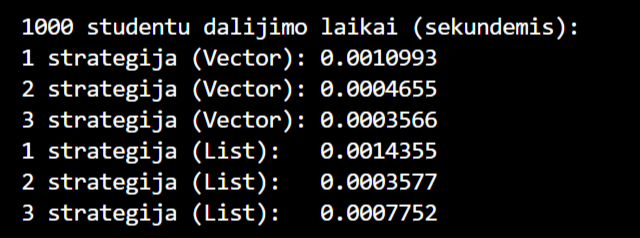
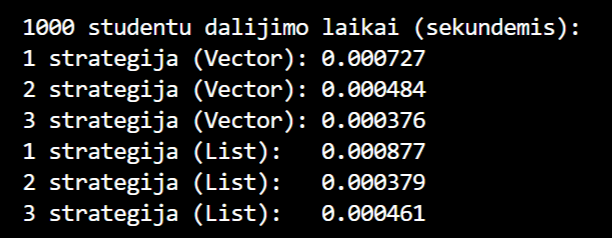
Pakoreguotos funkcijos, nuotraukos ir papildytas README.md failas

diff --git a/funkcijos.cpp b/funkcijos.cpp
@@ -357,9 +357,7 @@ void strategiju_analize()
     for (size_t dydis : dydziai)
         {
             const std::string failo_pavadinimas = "studentai_" + std::to_string(dydis) + ".txt";
-            std::chrono::duration<double> vector1Laikas, vector2Laikas;
-            std::chrono::duration<double> list1Laikas, list2Laikas;
-            std::chrono::duration<double> vector3Laikas, list3Laikas;
+            std::cout << "\n" << dydis << " studentu dalijimo laikai (sekundemis):\n";
             {
                 std::vector<studentas> vector1;
                 std::vector<studentas> vector1Vargsiukai;
@@ -370,7 +368,9 @@ void strategiju_analize()
                 auto pradzia = std::chrono::steady_clock::now();
                 studentu_rusiavimas(vector1, vector1Vargsiukai, vector1Kietiakai);
                 auto pabaiga = std::chrono::steady_clock::now();
-                vector1Laikas = pabaiga - pradzia;
+                const std::chrono::duration<double> laikas = pabaiga - pradzia;
+                std::cout << "1 strategija (Vector): " << std::fixed << std::setprecision(6)
+                          << laikas.count() << "\n" << std::flush;
             }
 
             {
@@ -382,7 +382,23 @@ void strategiju_analize()
                 auto pradzia = std::chrono::steady_clock::now();
                 studentu_rusiavimas_2strat(vector2, vector2Vargsiukai);
                 auto pabaiga = std::chrono::steady_clock::now();
-                vector2Laikas = pabaiga - pradzia;
+                const std::chrono::duration<double> laikas = pabaiga - pradzia;
+                std::cout << "2 strategija (Vector): " << std::fixed << std::setprecision(6)
+                          << laikas.count() << "\n" << std::flush;
+            }
+
+            {
+                std::vector<studentas> vector3;
+                std::vector<studentas> vector3Vargsiukai;
+                std::string vectorFailas3 = failo_pavadinimas;
+                failo_skaitymas(vector3, vectorFailas3);
+
+                auto pradzia = std::chrono::steady_clock::now();
+                studentu_rusiavimas_3strat(vector3, vector3Vargsiukai);
+                auto pabaiga = std::chrono::steady_clock::now();
+                const std::chrono::duration<double> laikas = pabaiga - pradzia;
+                std::cout << "3 strategija (Vector): " << std::fixed << std::setprecision(6)
+                          << laikas.count() << "\n" << std::flush;
             }
 
             {
@@ -395,7 +411,9 @@ void strategiju_analize()
                 auto pradzia = std::chrono::steady_clock::now();
                 studentu_rusiavimas(list1, list1Vargsiukai, list1Kietiakai);
                 auto pabaiga = std::chrono::steady_clock::now();
-                list1Laikas = pabaiga - pradzia;
+                const std::chrono::duration<double> laikas = pabaiga - pradzia;
+                std::cout << "1 strategija (List):   " << std::fixed << std::setprecision(6)
+                          << laikas.count() << "\n" << std::flush;
             }
 
             {
@@ -407,19 +425,9 @@ void strategiju_analize()
                 auto pradzia = std::chrono::steady_clock::now();
                 studentu_rusiavimas_2strat(list2, list2Vargsiukai);
                 auto pabaiga = std::chrono::steady_clock::now();
-                list2Laikas = pabaiga - pradzia;
-            }
-
-            {
-                std::vector<studentas> vector3;
-                std::vector<studentas> vector3Vargsiukai;
-                std::string vectorFailas3 = failo_pavadinimas;
-                failo_skaitymas(vector3, vectorFailas3);
-
-                auto pradzia = std::chrono::steady_clock::now();
-                studentu_rusiavimas_3strat(vector3, vector3Vargsiukai);
-                auto pabaiga = std::chrono::steady_clock::now();
-                vector3Laikas = pabaiga - pradzia;
+                const std::chrono::duration<double> laikas = pabaiga - pradzia;
+                std::cout << "2 strategija (List):   " << std::fixed << std::setprecision(6)
+                          << laikas.count() << "\n" << std::flush;
             }
 
             {
@@ -431,16 +439,10 @@ void strategiju_analize()
                 auto pradzia = std::chrono::steady_clock::now();
                 studentu_rusiavimas_3strat(list3, list3Vargsiukai);
                 auto pabaiga = std::chrono::steady_clock::now();
-                list3Laikas = pabaiga - pradzia;
+                const std::chrono::duration<double> laikas = pabaiga - pradzia;
+                std::cout << "3 strategija (List):   " << std::fixed << std::setprecision(6)
+                          << laikas.count() << "\n" << std::flush;
             }
-
-            std::cout << "\n" << dydis << " studentu dalijimo laikai (sekundemis):\n"
-                    << "1 strategija (Vector): " << vector1Laikas.count() << "\n"
-                    << "2 strategija (Vector): " << vector2Laikas.count() << "\n"
-                    << "3 strategija (Vector): " << vector3Laikas.count() << "\n"
-                    << "1 strategija (List):   " << list1Laikas.count() << "\n"
-                    << "2 strategija (List):   " << list2Laikas.count() << "\n"
-                    << "3 strategija (List):   " << list3Laikas.count() << "\n";
         }
 }
 

diff --git a/README.md b/README.md
@@ -55,7 +55,7 @@ Zemiau pateikiami programos spartos analizes rezultatu ***vidurkiai*** Vector ir
 |1000000 irasu (19 ND)|8.367813|0.624856|1.328955|3.657743|4.594591|18.573957|
 |10000000 irasu (17 ND)|62.052814|6.931588|17.658217|33.601936|42.680251|162.924806|
 ---
-**Isvada:** Siuo atveju sparciausiai vykdomas studentu dalijimas, o leciausiai - nuskaitymas. Skirtumas tarp funkciju vykdymo spartos List konteinerio atveju yra labiau pastebimas nei Vector tipo.
+**Isvada:** Siuo atveju sparciausiai vykdomas studentu dalijimas, o leciausiai - nuskaitymas. Skirtumas tarp funkciju vykdymo spartos List konteinerio atveju yra labiau pastebimas nei Vector tipo, be to, bendras operaciju vykdymo laikas yra trumpesnis nei Vector atveju.
 
 ## 3 studentu dalijimo strategiju spartos analize
 
@@ -75,4 +75,22 @@ Zemiau pateikiami 3 studentu dalijimo strategiju spartos analizes rezultatu ***v
 
 |Failas|1 strategija, s|2 strategija, s|3 strategija, s|
 |------|---------------|---------------|---------------|
-|1000 irasu (10 ND)|
+|1000 irasu (10 ND)|0.000811|0.000495|0.000355|
+|10000 irasu (7 ND)|0.008551|0.005814|0.003515|
+|100000 irasu (10 ND)|0.060238|0.051621|0.034660|
+|1000000 irasu (19 ND)|0.703370|0.497072|0.379706|
+|10000000 irasu (17 ND)|7.443739|5.724879|3.906062|
+---
+**Isvada:** Siuo atveju leciausia yra 1 strategija, 2 strategija yra spartesne uz 1 strategija, o 3 strategija (2 strategija su Partition metodu) yra sparciausia.
+
+### 3 studentu dalijimo strategiju sparta (List):
+
+|Failas|1 strategija, s|2 strategija, s|3 strategija, s|
+|------|---------------|---------------|---------------|
+|1000 irasu (10 ND)|0.000874|0.000348|0.001098|
+|10000 irasu (7 ND)|0.004945|0.003822|0.005035|
+|100000 irasu (10 ND)|0.052069|0.041634|0.054542|
+|1000000 irasu (19 ND)|0.558411|0.427090|0.576835|
+|10000000 irasu (17 ND)|6.355367|4.551922|5.734487|
+---
+**Isvada:** Siuo atveju dominuojancias tendencijas izvelgti sunkiau, taciau beveik visu testu (isskyrus didziausio failo) metu leciausia yra 3 strategija, t.y. 2 strategija su Partition metodu (priesingai nei Vector atveju), o sparciausia - 2 strategija.
